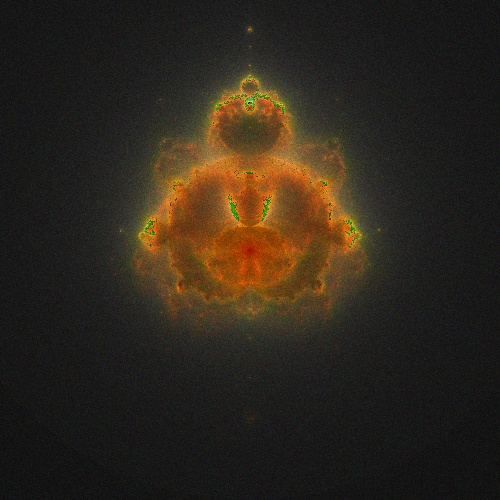
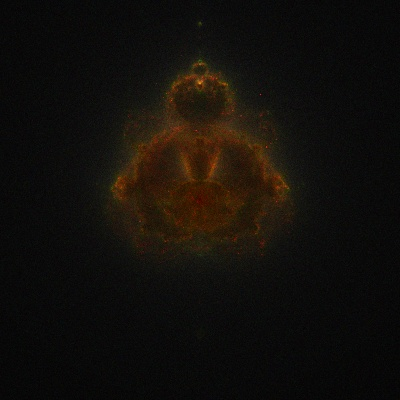
Added rescaling and more photos

Changed region(s): [[0.15, 0.0, 0.84, 0.78], [0.48, 0.81, 0.51, 0.84]]

diff --git a/buddhabrot.py b/buddhabrot.py
@@ -1,15 +1,17 @@
 import random
 import numpy as np
 import cv2
+from tqdm import tqdm
 
-HEIGHT, WIDTH = 500, 500
+HEIGHT, WIDTH = 400, 400
 OUT_DIR = 'images/'
 
-RED_ITERS = 2000
+global MAX_COLOR
+RED_ITERS = 20000
 GREEN_ITERS = 200
 BLUE_ITERS = 20
 
-nr_samples = 4000000
+nr_samples = 1000000
 max_val = 2.0
 minimum = -max_val - max_val * 1j
 maximum = max_val + max_val * 1j
@@ -41,7 +43,7 @@ def generate_points(c, nr_iterations):
         return result
 
 def color_image(nr_samples, nr_iterations, maximum, minimum, height, width, real_range, color):
-    for i in range(nr_samples):
+    for i in tqdm(range(nr_samples)):
         x = random.uniform(-2, 2)
         y = random.uniform(-2, 2)
         c = x + y * 1j
@@ -54,13 +56,22 @@ def color_image(nr_samples, nr_iterations, maximum, minimum, height, width, real
                 col = imag_to_col(point.imag, minimum = minimum, maximum = maximum, width = width, imag_range = imag_range) 
 
                 buddhabrot[row,col,colors[color]] += 1
-    
-if __name__ == "__main__":
-    buddhabrot = np.zeros((HEIGHT, WIDTH, 3), dtype = np.uint8)
 
-    color_image(nr_samples, RED_ITERS, maximum, minimum, HEIGHT, WIDTH, real_range, 'red')
-    color_image(nr_samples, GREEN_ITERS, maximum, minimum, HEIGHT, WIDTH, real_range, 'green')
-    color_image(nr_samples, BLUE_ITERS, maximum, minimum, HEIGHT, WIDTH, real_range, 'blue')
+buddhabrot = np.zeros((HEIGHT, WIDTH, 3), dtype = np.uint64)
 
-    print("got here")
-    cv2.imwrite(OUT_DIR + 'buddhabrot.jpg', buddhabrot)  
+color_image(nr_samples, RED_ITERS, maximum, minimum, HEIGHT, WIDTH, real_range, 'red')
+color_image(nr_samples, GREEN_ITERS, maximum, minimum, HEIGHT, WIDTH, real_range, 'green')
+color_image(nr_samples, BLUE_ITERS, maximum, minimum, HEIGHT, WIDTH, real_range, 'blue')
+
+max_value = np.max(buddhabrot)
+
+scale = 255 / max_value
+for row in range(HEIGHT):
+    for col in range(WIDTH):
+        buddhabrot[row,col,0] = np.uint8(buddhabrot[row,col,0] * scale)
+        buddhabrot[row,col,1] = np.uint8(buddhabrot[row,col,1] * scale)
+        buddhabrot[row,col,2] = np.uint8(buddhabrot[row,col,2] * scale)
+
+buddhabrot = buddhabrot.astype(np.uint8)
+
+cv2.imwrite(OUT_DIR + 'buddhabrotMoreRed.jpg', buddhabrot)  
